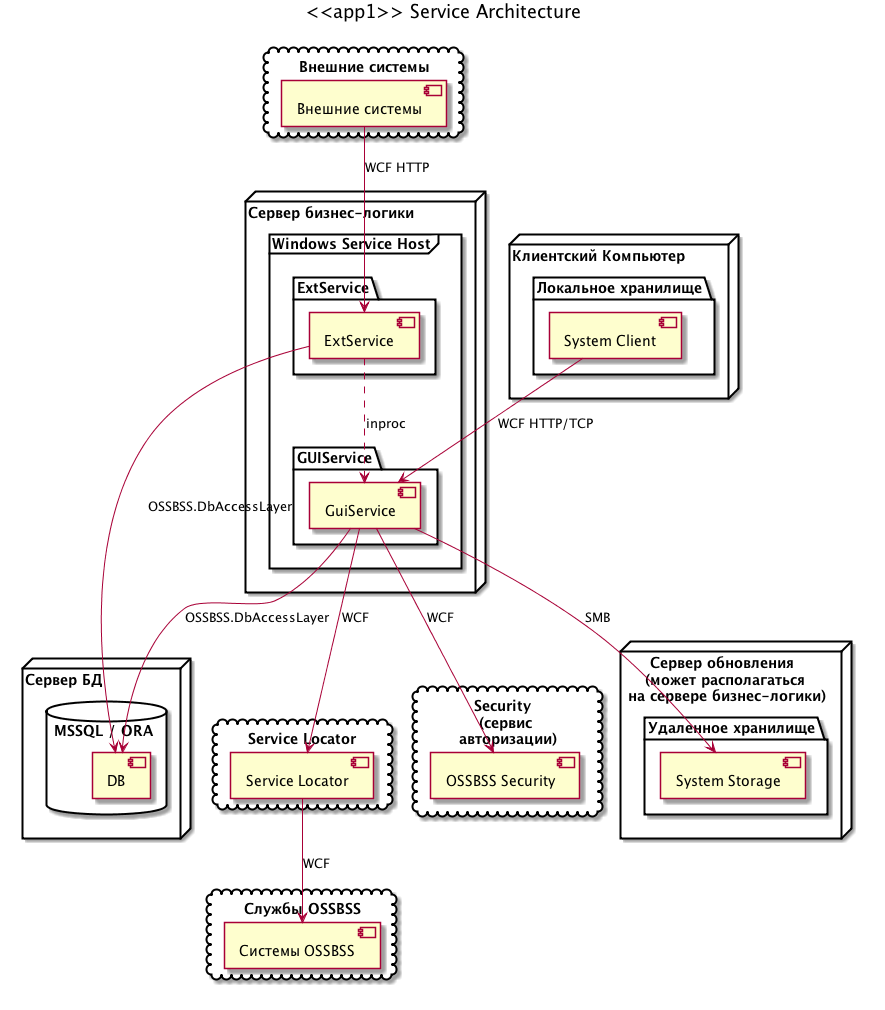
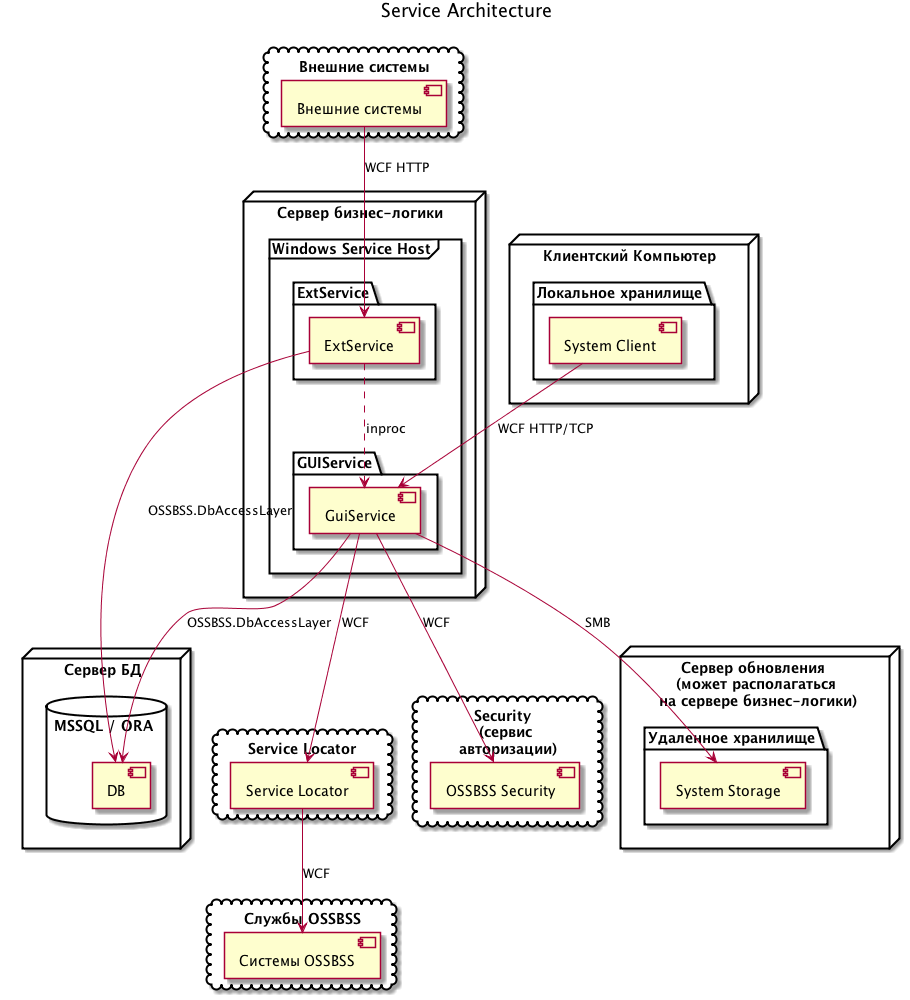
finish subtitle feature

Changed region(s): [[0.0, 0.0, 1.0, 1.0], [0.1831, 0.403, 0.2136, 0.434], [0.1525, 0.434, 0.1831, 0.465]]

diff --git a/README.md b/README.md
@@ -27,11 +27,8 @@ different one.
 
 Specifying `<<subtitle>>` at the beginning of the title will provide an output
 file suffixed with that name.  This is useful in files with multiple diagrams
-so that they are generated with intelligible and predictable names.
-
-## Subtitles
-Just like the code above, with a title `<<subname>>`, you can get a fixed name
-as `sourcefilename-subname.png` instead of the random suffix.
+so that they are generated with intelligible and predictable names.  The
+subtitle will be stripped from the final diagram.
 
 ## Operating System Support
 
